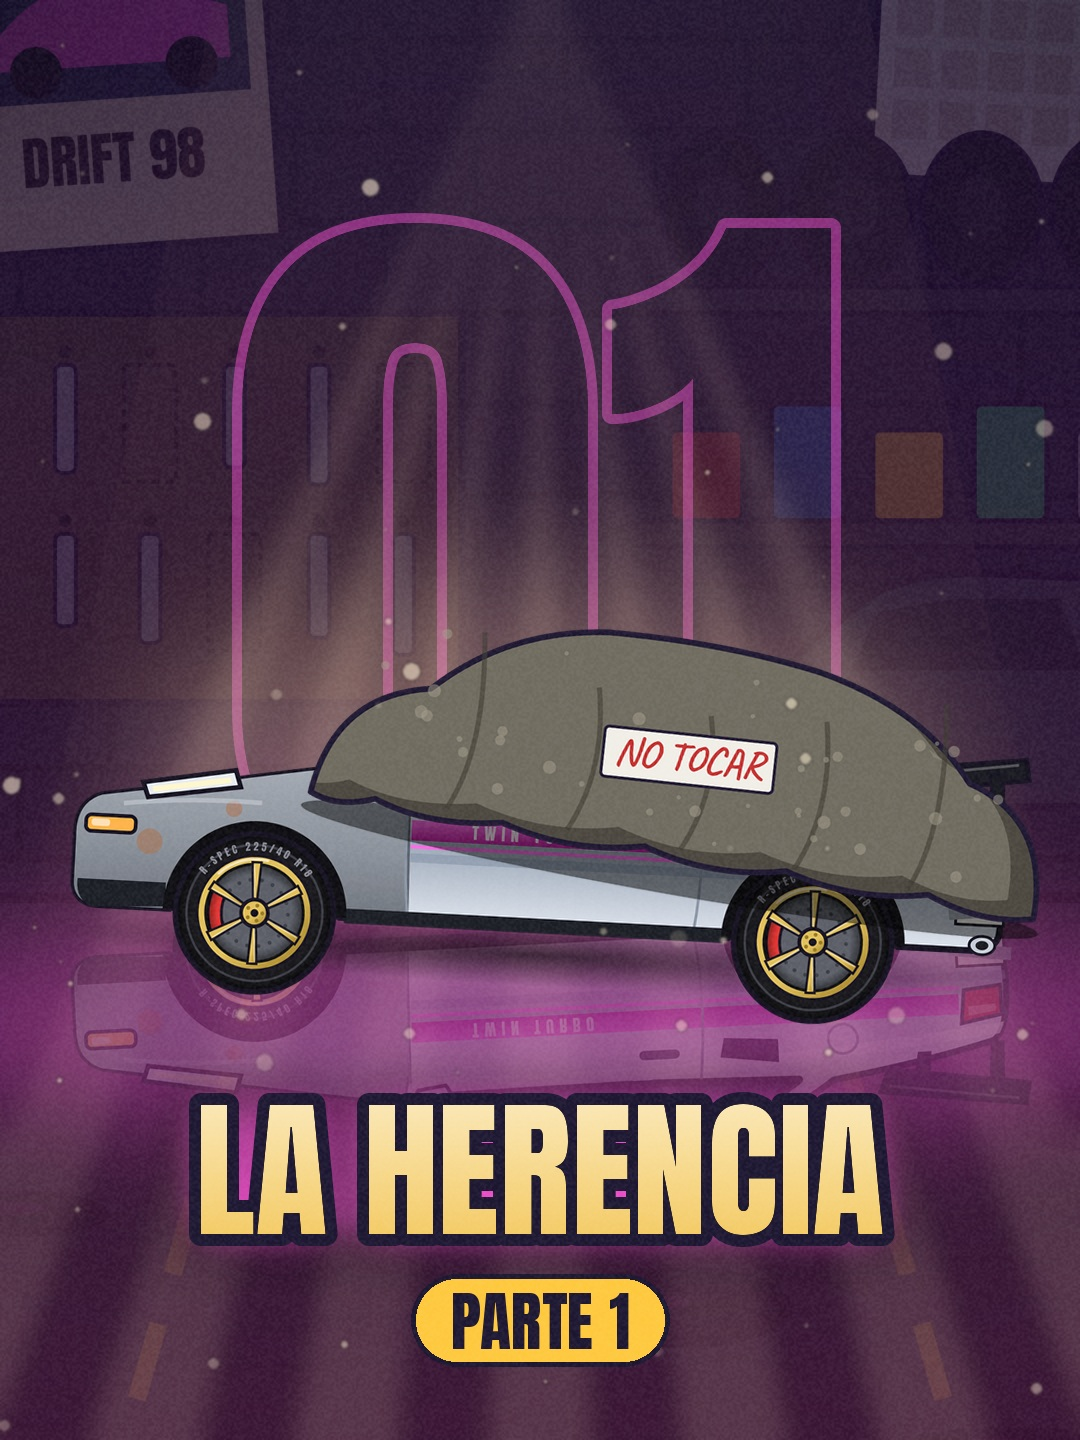
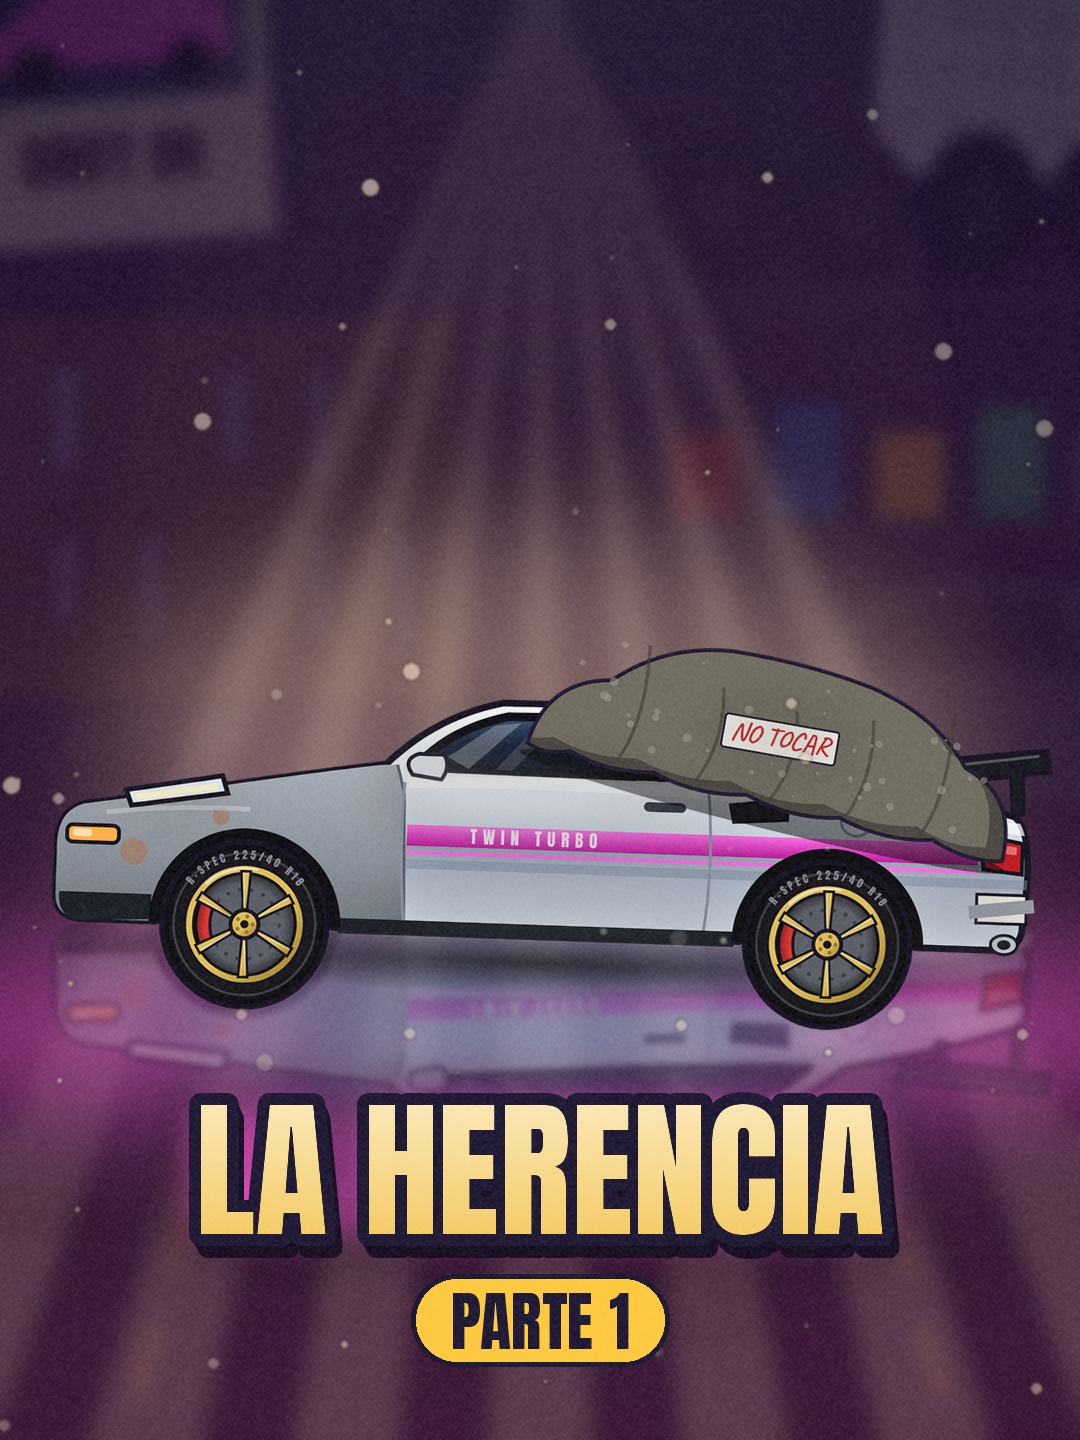
Portadas pro v2: sin números, profundidad de campo, bloom, título 3D
Claude-Session: https://claude.ai/code/session_01NdJoArJvAFN6ncq433eaCm

diff --git a/taller-pov/portada_pro.py b/taller-pov/portada_pro.py
@@ -9,8 +9,8 @@ from render import Image, ImageDraw, ImageFilter, put, scaled, bg, dark, text, Y
 
 CW, CH = 1080, 1440
 
-def lienzo(name, z=1.2, fx=.5, fy=.55, d=150):
-    c = bg(name, 0, 0, z, z, 1, fx, fy).crop((0, 240, 1080, 1680)); dark(c, d); return c
+def lienzo(name, z=1.2, fx=.5, fy=.55, d=150, blur=7):
+    c = bg(name, 0, 0, z, z, 1, fx, fy).crop((0, 240, 1080, 1680)).filter(ImageFilter.GaussianBlur(blur)); dark(c, d); return c
 
 def grade(c, top, bottom, a=110):
     """Gradiente de color (tono cinematográfico) de arriba a abajo."""
@@ -55,6 +55,9 @@ def titulo(c, s, col1, col2, glowcol, y=1170):
         k = yy / 260; gd.line((0, yy, CW, yy), fill=tuple(int(col1[i] * (1 - k) + col2[i] * k) for i in range(3)) + (255,))
     halo = Image.new("RGBA", (CW, 260), (0, 0, 0, 0)); ImageDraw.Draw(halo).text((540, 130), s, font=f, anchor="mm", fill=glowcol + (230,), stroke_width=14, stroke_fill=glowcol + (230,))
     c.alpha_composite(halo.filter(ImageFilter.GaussianBlur(22)), (0, y - 130))
+    for k in range(14, 0, -2):   # extrusión 3D
+        sh = Image.new("RGBA", (CW, 260), (0, 0, 0, 0)); ImageDraw.Draw(sh).text((540, 130), s, font=f, anchor="mm", fill=(20, 12, 30), stroke_width=10, stroke_fill=(20, 12, 30))
+        c.alpha_composite(sh, (k // 2, y - 130 + k))
     sh = Image.new("RGBA", (CW, 260), (0, 0, 0, 0)); ImageDraw.Draw(sh).text((540, 130), s, font=f, anchor="mm", fill=OL, stroke_width=12, stroke_fill=OL)
     c.alpha_composite(sh, (0, y - 130))
     txt = Image.new("RGBA", (CW, 260), (0, 0, 0, 0)); txt.paste(gr, (0, 0), m); c.alpha_composite(txt, (0, y - 130))
@@ -65,6 +68,12 @@ def chip(c, n, col, y=1320):
     d.rounded_rectangle((540 - w / 2, y - 46, 540 + w / 2, y + 46), 46, fill=col, outline=OL, width=5)
     d.text((540, y + 2), s, font=f, fill=OL, anchor="mm")
 
+def bloom(c, thr=200, k=.55):
+    lum = c.convert("L").point(lambda v: 255 if v > thr else 0)
+    br = Image.new("RGBA", (CW, CH), (0, 0, 0, 0)); br.paste(c, (0, 0), lum)
+    br = br.filter(ImageFilter.GaussianBlur(26)); br.putalpha(br.getchannel("A").point(lambda v: int(v * k)))
+    c.alpha_composite(br)
+
 def acabado(c, seed):
     v = Image.new("L", (CW, CH), 0); ImageDraw.Draw(v).ellipse((-260, -200, CW + 260, CH + 260), fill=255)
     v = v.filter(ImageFilter.GaussianBlur(160)); sh = Image.new("RGBA", (CW, CH), (0, 0, 0, 230)); sh.putalpha(v.point(lambda p: 230 - int(p * .9)))
@@ -73,22 +82,21 @@ def acabado(c, seed):
     gr = Image.new("RGBA", (CW, CH), (255, 255, 255, 0)); gr.putalpha(g.resize((CW, CH)).point(lambda p: int(p * .06))); c.alpha_composite(gr)
 
 def p1():
-    c = lienzo("bg_taller", 1.3, .5, .62, 170); grade(c, (40, 10, 70), (120, 20, 90), 90)
-    numero(c, 1, MAG)
-    rayos(c, 540, -60, (255, 230, 190), 7, 34, .9)
-    glow(c, [((80, 520, 1000, 1020), (255, 220, 170, 80)), ((-100, 850, 1180, 1200), MAG + (110,))])
-    car = scaled("deportivo", .92).rotate(-3, resample=Image.BICUBIC, expand=True)
-    ref = car.transpose(Image.FLIP_TOP_BOTTOM); ref.putalpha(ref.getchannel("A").point(lambda v: int(v * .22)))
-    c.alpha_composite(ref, (540 - ref.width // 2, 870 - 60))
+    c = lienzo("bg_taller", 1.3, .5, .62, 170, 9); grade(c, (40, 10, 70), (120, 20, 90), 90)
+    rayos(c, 540, -60, (255, 230, 190), 7, 40, .9)
+    glow(c, [((60, 480, 1020, 1000), (255, 220, 170, 90)), ((-140, 880, 1220, 1180), MAG + (150,)), ((200, 940, 880, 1080), CYAN + (90,))])
+    car = scaled("deportivo", .96).rotate(-2, resample=Image.BICUBIC, expand=True)
+    ref = car.transpose(Image.FLIP_TOP_BOTTOM); ref.putalpha(ref.getchannel("A").point(lambda v: int(v * .25)))
+    c.alpha_composite(ref.filter(ImageFilter.GaussianBlur(3)), (540 - ref.width // 2, 860 - 70))
     c.alpha_composite(car, (540 - car.width // 2, 760 - car.height // 2))
-    put(c, "lona", 700, 700, .72, rot=-10)
+    put(c, "lona", 790, 700, .48, rot=-14)
     polvo(c, 1)
+    bloom(c)
     titulo(c, "LA HERENCIA", (255, 245, 220), (242, 190, 60), MAG)
     chip(c, 1, YEL); acabado(c, 1); return c
 
 def p2():
     c = lienzo("bg_fachada", 1.15, .5, .7, 120); grade(c, (60, 0, 10), (150, 30, 20), 110)
-    numero(c, 2, RED)
     pers = scaled("persiana", 1.25)
     c.alpha_composite(Image.new("RGBA", (pers.width, pers.height), (8, 6, 10, 255)), (540 - pers.width // 2, 250))
     h = int(pers.height * .62); c.alpha_composite(pers.crop((0, pers.height - h, pers.width, pers.height)), (540 - pers.width // 2, 250))
@@ -100,12 +108,12 @@ def p2():
     c.alpha_composite(sil, (540 - ni.width // 2, 640 - ni.height // 2))
     rayos(c, 540, 1080, (255, 170, 110), 9, 30, 1.6, -math.pi / 2)
     polvo(c, 2, (255, 200, 170))
+    bloom(c)
     titulo(c, "PERSIANA ABAJO", (255, 240, 225), (255, 120, 80), RED)
     chip(c, 2, YEL); acabado(c, 2); return c
 
 def p3():
     c = lienzo("bg_poligono", 1.5, .5, .5, 170); grade(c, (5, 25, 50), (60, 40, 10), 100)
-    numero(c, 3, CYAN)
     glow(c, [((120, 260, 960, 1000), (255, 200, 110, 120))])
     rayos(c, 540, 330, (255, 220, 150), 12, 26, 6.2, 0)
     lay = Image.new("RGBA", (CW, CH), (0, 0, 0, 0)); d = ImageDraw.Draw(lay)
@@ -127,6 +135,7 @@ def p3():
     ep3.ep_chispas(c, .25, 0, ox - 120, T_(0, 640)[1], n=40, dur=.6)
     ep3.ep_chispas(c, .18, 0, ox + 110, T_(0, 640)[1], n=30, dur=.5)
     polvo(c, 3, (255, 230, 170))
+    bloom(c)
     titulo(c, "NAVE 7", (255, 250, 230), (255, 190, 80), (255, 170, 60))
     chip(c, 3, YEL); acabado(c, 3); return c
 
